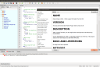
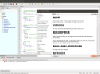
Another round at screenshot gallery
git-svn-id: http://svn.perlide.org/padre/trunk/template.padre.perlide.org@18995 bc93166f-e056-4eb9-8c59-0a0840647e1b

diff --git a/tt/pages/screenshots.html b/tt/pages/screenshots.html
@@ -14,7 +14,7 @@
 <style text="text/css">
 	#gallery {
 		padding: 10px;
-		width: 50%;
+		width: 100%;
 	}
 	#gallery ul { list-style: none; }
 	#gallery ul li { display: inline; }
@@ -117,7 +117,8 @@
 <h3>Videos and Screencasts</h3>
 On this page you can find static screenshots of Padre (some old and some new).
 On a separate page you can see <a href="screencasts.html">screencasts</a> showing how to use Padre.
-[% END %]
+<br/>
 <div id="gallery"></div>
+[% END %]
 
 [% END %]
